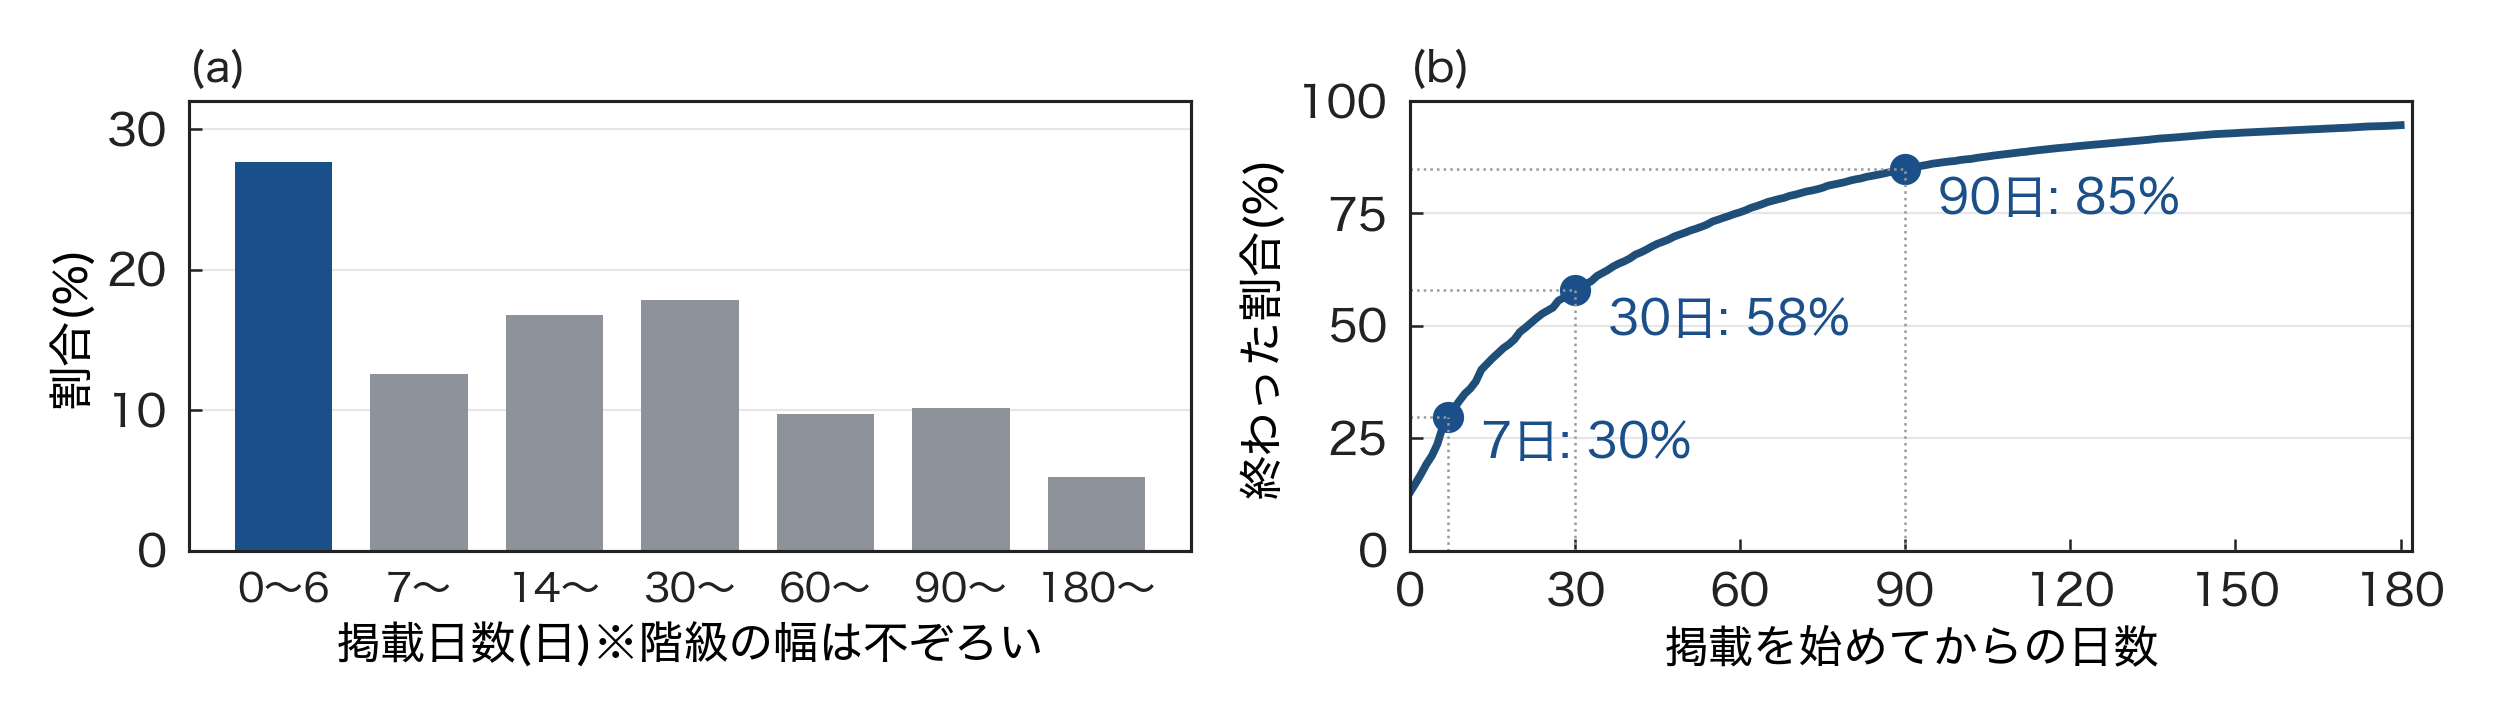
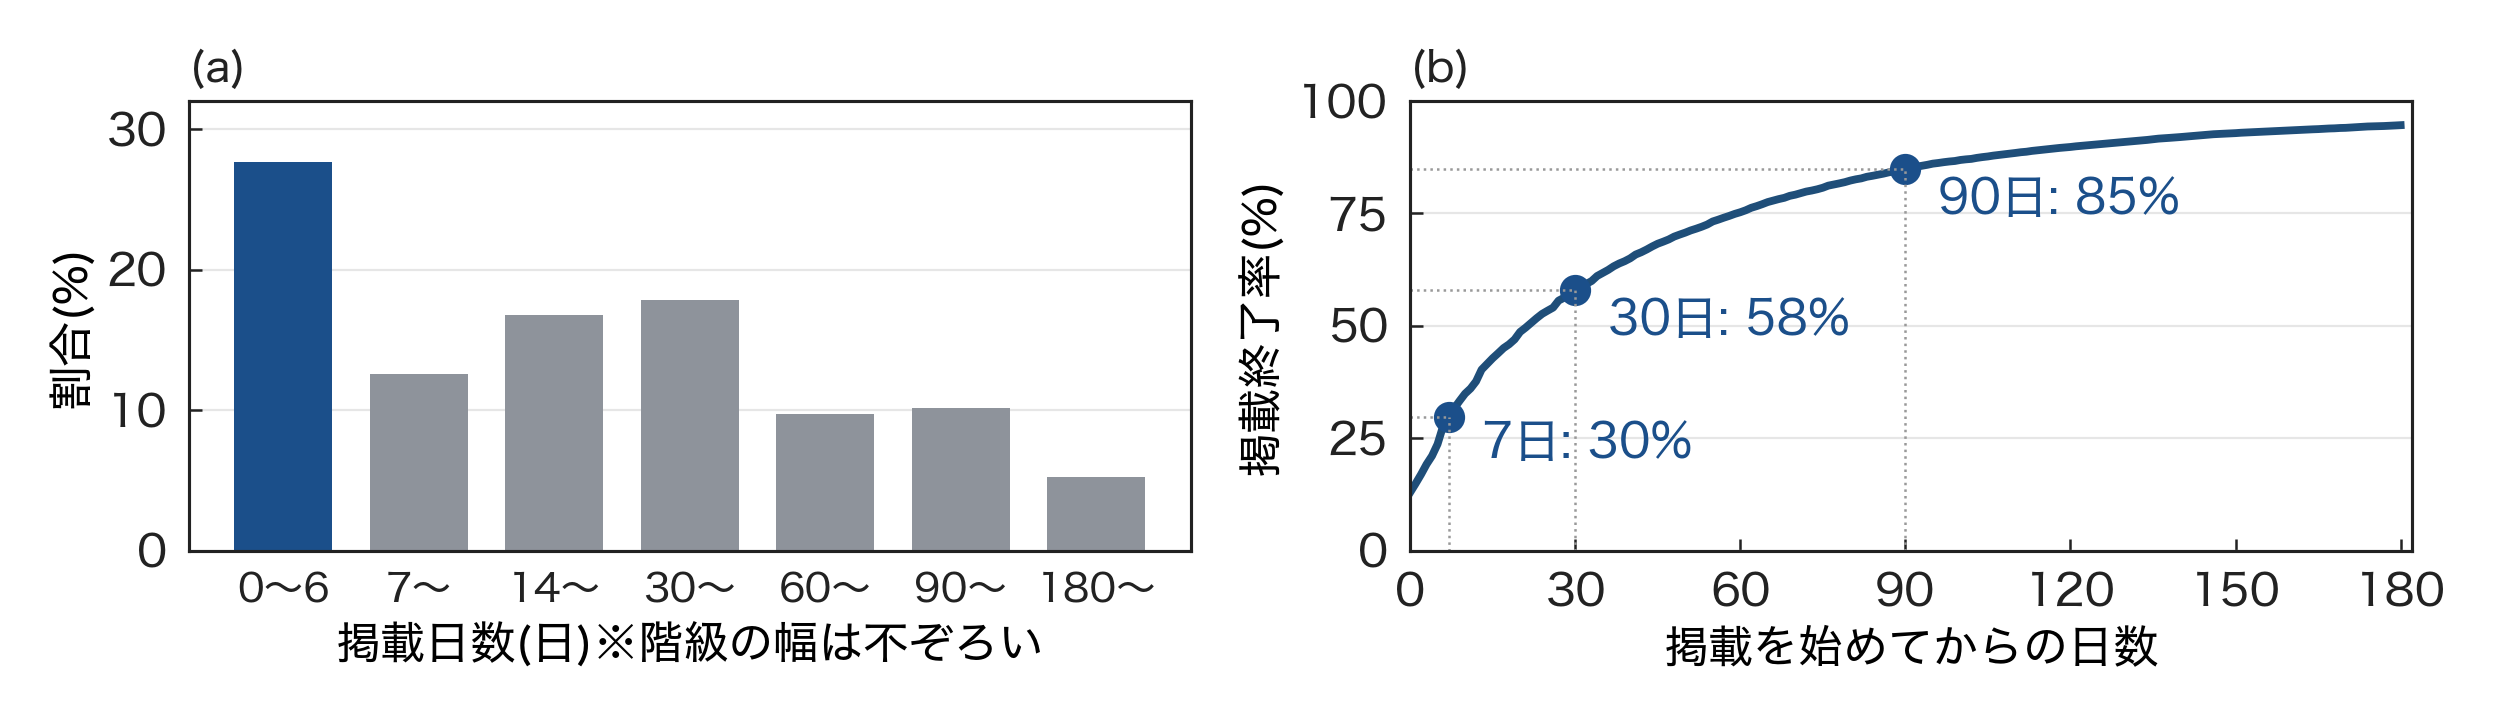
Talk figures: use 掲載終了率 on y-axes, clarify 31b(b) title and 31c2 legend

Changed region(s): [[0.5, 0.2139, 0.5625, 0.7028], [0.5938, 0.5806, 0.6875, 0.6417], [0.6875, 0.7944, 0.7188, 0.825]]

diff --git a/Yamamoto/room_level/analysis/31_slide_figures.py b/Yamamoto/room_level/analysis/31_slide_figures.py
@@ -191,10 +191,60 @@ def fig_duration() -> None:
     b.set_ylim(0, 100)
     b.set_xticks([0, 30, 60, 90, 120, 150, 180] if TALK else [0, 7, 30, 60, 90, 120, 150, 180])
     b.set_xlabel("掲載を始めてからの日数")
-    b.set_ylabel("終わった割合(%)" if TALK else "終わった物件の割合(%)")
+    b.set_ylabel("掲載終了率(%)" if TALK else "終わった物件の割合(%)")
     panel(b, "(b)")
     fig.tight_layout()
     save(fig, "31a_duration.png")
+
+
+# ---------- 31j 掲載日数の中央値と平均値、条件別の中央値 ----------
+def fig_duration_stats() -> None:
+    d = load_prepared(ROOT / "data" / "prepared" / "kokubunji_raw.parquet")
+    s = d[d["start_year"].between(2020, 2023) & d["valid_complete_duration"]].copy()
+    dur = s["duration"].to_numpy(float)
+    med, mean = float(np.median(dur)), float(dur.mean())
+    note("31j", "件数", len(s))
+    note("31j", "中央値(日)", med)
+    note("31j", "平均(日)", mean)
+    fig, ax = new(1664, 470, 3, [1.5, 1, 1.25])
+    a = ax[0]
+    edges = list(range(0, 190, 10)) + [10**6]
+    cnt, _ = np.histogram(dur, bins=edges)
+    a.bar(np.arange(len(cnt)) * 10 + 5, 100 * cnt / cnt.sum(), 9, color=BASE if TALK else MIDC)
+    a.axvline(med, color=HI if TALK else DARK, lw=2.8, label=f"中央値 {med:.0f}日")
+    a.axvline(mean, color="#222222", lw=2.4, ls="--", label=f"平均 {mean:.0f}日")
+    a.legend(loc="upper right", handlelength=1.6)
+    a.set_xlim(0, 190)
+    a.set_xticks([0, 60, 120, 180])
+    a.set_xticklabels(["0", "60", "120", "180〜"])
+    a.set_xlabel("掲載日数(日)")
+    a.set_ylabel("割合(%)")
+    panel(a, "(a) 掲載日数の分布")
+
+    def bars(a, groups: pd.Series, labels: list[str], title: str, xlabel: str, name: str) -> None:
+        m = s.groupby(groups, observed=True)["duration"].median()
+        for k, v in zip(labels, m.to_numpy()):
+            note("31j", f"{name} {k} 中央値(日)", v)
+        a.bar(range(len(m)), m.to_numpy(), 0.7, color=BASE if TALK else MIDC)
+        a.axhline(med, color=HI if TALK else DARK, lw=1.8, ls="--", label=f"全体 {med:.0f}日")
+        for i, v in enumerate(m.to_numpy()):
+            a.text(i, min(v * 0.5, 14), f"{v:.0f}", ha="center", va="center", color="white", fontweight="bold", fontsize=13 * FS)
+        a.set_xticks(range(len(m)))
+        a.set_xticklabels(labels, fontsize=12 * FS)
+        a.set_xlabel(xlabel)
+        a.set_ylim(0, 72)
+        panel(a, title)
+
+    labs_age = ["20年\n未満", "20〜\n30年", "30年\n以上"]
+    ab = pd.cut(s["age"], [-1, 20, 30, 200], right=False, labels=labs_age)
+    bars(ax[1], ab, labs_age, "(b) 築年数別の中央値", "築年数(年)", "築年数")
+    ax[1].set_ylabel("掲載日数の中央値(日)")
+    labs_rent = ["〜5", "5〜\n7", "7〜\n9", "9〜\n11", "11〜"]
+    rb = pd.cut(s["rent"], [0, 50000, 70000, 90000, 110000, 1e9], labels=labs_rent)
+    bars(ax[2], rb, labs_rent, "(c) 家賃別の中央値", "家賃(万円)", "家賃")
+    ax[1].legend(loc="upper left", handlelength=1.6)
+    fig.tight_layout()
+    save(fig, "31j_duration_stats.png")
 
 
 # ---------- 31h ROC曲線 ----------
@@ -286,9 +336,9 @@ def fig_horizon(c23: pd.DataFrame) -> None:
         a.set_ylim(*ylim)
         a.set_xticks(range(3))
         a.set_xticklabels(["7日", "14日", "30日"])
-        a.set_ylabel(("AUC" if ylab.startswith("AUC") else "上位30%÷残り\n(倍)") if TALK else ylab)
+        a.set_ylabel(("AUC" if ylab.startswith("AUC") else "倍率(倍)") if TALK else ylab)
     panel(ax[0], "(a) 似た物件どうしのAUC" if TALK else "(a)")
-    panel(ax[1], "(b) 上位30%の終了率 ÷ 残りの終了率" if TALK else "(b)")
+    panel(ax[1], "(b) 上位30%の掲載終了率は残りの何倍か" if TALK else "(b)")
     if TALK:
         ax[0].text(2.45, 0.503, "ランダム(0.5)", ha="right", va="bottom", fontsize=11 * FS, color="#555555")
     fig.tight_layout()
@@ -355,12 +405,12 @@ def fig_levels(c22: pd.DataFrame, c23: pd.DataFrame, c24: pd.DataFrame) -> None:
         a.set_xticklabels(labs)
         a.set_ylim(0, 30)
         a.set_title(pl, loc="left", fontsize=12 * FS)
-    ax[0].set_ylabel("終わった割合(%)" if TALK else "7日以内に終わった割合(%)")
+    ax[0].set_ylabel("掲載終了率(%)" if TALK else "7日以内に終わった割合(%)")
     fig.tight_layout(w_pad=3.0)
     fig.subplots_adjust(bottom=0.36 if TALK else 0.2)
     save(fig, "31c1_levels_rates.png")
 
-    rows = [("分けない(確率そのまま)", "o", None), ("3グループ版", "s", cuts["3グループ版"]), ("2グループ版", "^", cuts["2グループ版"]), ("2グループ版(15%)", "D", [T])]
+    rows = [("分けない(確率そのまま)", "o", None), ("3グループ版", "s", cuts["3グループ版"]), ("2グループ版(比較用)", "^", cuts["2グループ版"]), ("2グループ版(15%・採用)", "D", [T])]
     fig, b = new(900, 450)
     offs = [-0.27, -0.09, 0.09, 0.27]
     for i, (d, yname) in enumerate(sets):
@@ -471,7 +521,7 @@ def fig_result2023(c23: pd.DataFrame) -> None:
     a.set_xticks(range(3))
     a.set_xticklabels(["低", "全体", "高"])
     a.set_ylim(0, 20)
-    a.set_ylabel("終わった割合(%)" if TALK else "7日以内に終わった割合(%)")
+    a.set_ylabel("掲載終了率(%)" if TALK else "7日以内に終わった割合(%)")
     panel(a, "(a)")
     b = ax[1]
     for i, (n, (e, l_, h_)) in enumerate(ws.items()):
@@ -493,7 +543,7 @@ def fig_result2023(c23: pd.DataFrame) -> None:
 
 
 # ---------- 31e 偶然か、簡単な目安か(25と同じ計算、同じ乱数) ----------
-def fig_baselines(c22: pd.DataFrame, c23: pd.DataFrame) -> None:
+def baseline_rows(c22: pd.DataFrame, c23: pd.DataFrame) -> list:
     rng = np.random.default_rng(20261020)
     edges = [0, 7, 14, 21, 30, 45, 60, 90, 120, 10_000]
 
@@ -538,7 +588,11 @@ def fig_baselines(c22: pd.DataFrame, c23: pd.DataFrame) -> None:
         note("31e", f"{k} 差(ポイント)", gap)
         note("31e", f"{k} 95%区間 下", lo)
         note("31e", f"{k} 95%区間 上", hi_)
-    rows = rows[::-1]
+    return rows[::-1]
+
+
+def fig_baselines(c22: pd.DataFrame, c23: pd.DataFrame) -> None:
+    rows = baseline_rows(c22, c23)
     fig, ax = new(1000, 480)
     for i, (k, gap, lo, hi_) in enumerate(rows):
         ax.barh(i, gap, 0.6, color=(HI if k == "今回の方法" else BASE) if TALK else MIDC)
@@ -573,10 +627,53 @@ def fig_holdout(c23: pd.DataFrame, c24: pd.DataFrame) -> None:
     a.set_xticks([0, 1])
     a.set_xticklabels([f"2023年\n(n={len(c23):,})", f"2024年1〜3月\n(n={len(c24):,})"])
     a.set_ylim(0, 30)
-    a.set_ylabel("終わった割合(%)" if TALK else "7日以内に終わった割合(%)")
+    a.set_ylabel("掲載終了率(%)" if TALK else "7日以内に終わった割合(%)")
     a.legend(loc="upper left")
     fig.tight_layout()
     save(fig, "31f_holdout.png")
+
+
+# ---------- 31k 確かめ: 単純な分類との比較(2023年)と、新しいデータ(2024年1〜3月) ----------
+def fig_checks(c22: pd.DataFrame, c23: pd.DataFrame, c24: pd.DataFrame) -> None:
+    rows = baseline_rows(c22, c23)  # 31e と同じ計算(同じ乱数)
+    short = {"3つの条件を組み合わせた集計": "3条件の集計", "ランダムに分けた場合": "ランダム"}
+    fig, ax = new(1664, 500, 2, [1.45, 0.85])
+    a = ax[0]
+    for i, (k, gap, lo, hi_) in enumerate(rows):
+        a.barh(i, gap, 0.62, color=(HI if k == "今回の方法" else BASE) if TALK else MIDC)
+        if TALK and k in ("今回の方法", "3つの条件を組み合わせた集計"):
+            a.text(hi_ + 0.2, i, f"{gap:+.1f}", va="center", fontsize=13 * FS, color=HI if k == "今回の方法" else "#333333")
+        dot_ci(a, i, gap, lo, hi_, marker="none", color="#222222", vertical=False)
+    a.set_yticks(range(len(rows)))
+    a.set_yticklabels([short.get(r[0], r[0]) for r in rows])
+    a.axvline(0, color="#222222", lw=0.8)
+    a.set_xlim(-1.5, 11.5)
+    if TALK:
+        a.grid(axis="x", visible=True)
+        a.grid(axis="y", visible=False)
+    a.set_xlabel("高と低の差(ポイント、2023年)")
+    panel(a, "(a) 単純な分類との比較")
+    b = ax[1]
+    for i, (d, nm) in enumerate([(c23, "2023年"), (c24, "2024年\n1〜3月")]):
+        p, y = d["base_7"].to_numpy(), d["target_7"].to_numpy()
+        hi = p >= T
+        lo_r, hi_r = 100 * y[~hi].mean(), 100 * y[hi].mean()
+        note("31k", f"{nm.replace(chr(10), '')} 低 終了率(%)", lo_r)
+        note("31k", f"{nm.replace(chr(10), '')} 高 終了率(%)", hi_r)
+        note("31k", f"{nm.replace(chr(10), '')} 倍率", hi_r / lo_r)
+        note("31k", f"{nm.replace(chr(10), '')} 高の割合(%)", 100 * hi.mean())
+        b.bar(i - 0.2, lo_r, 0.36, color=PALE if TALK else LIGHT, label="低" if i == 0 else None)
+        b.bar(i + 0.2, hi_r, 0.36, color=HI if TALK else DARK, label="高" if i == 0 else None)
+        b.text(i - 0.2, lo_r + 0.5, f"{lo_r:.1f}", ha="center", fontsize=12 * FS)
+        b.text(i + 0.2, hi_r + 0.5, f"{hi_r:.1f}", ha="center", fontsize=12 * FS)
+    b.set_xticks([0, 1])
+    b.set_xticklabels(["2023年", "2024年\n1〜3月"])
+    b.set_ylim(0, 31)
+    b.set_ylabel("掲載終了率(%)")
+    b.legend(loc="upper left")
+    panel(b, "(b) 新しいデータでも")
+    fig.tight_layout()
+    save(fig, "31k_checks.png")
 
 
 # ---------- 国分寺市と多摩地域: 学習する範囲を変えても、国分寺市での当たり具合は同じか(15番の表を図にする) ----------
@@ -862,6 +959,7 @@ def main() -> None:
         fig_calibration(c23, c24)
         fig_extra(c23)
     fig_duration()
+    fig_duration_stats()
     fig_roc(c23)
     fig_horizon(c23)
     fig_levels(c22, c23, c24)
@@ -869,6 +967,7 @@ def main() -> None:
     fig_result2023(c23)
     fig_baselines(c22, c23)
     fig_holdout(c23, c24)
+    fig_checks(c22, c23, c24)
     t = pd.DataFrame(NUMS)
     if not TALK:
         t.to_csv(TAB / "31_slide_numbers.csv", index=False, encoding="utf-8-sig")
